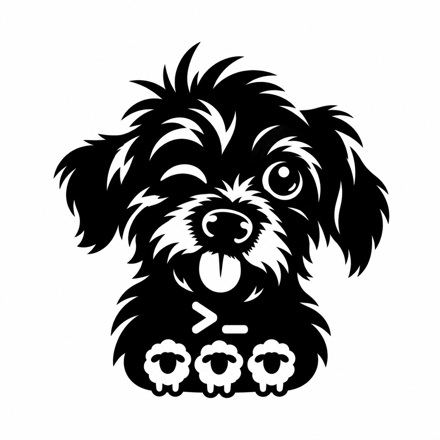
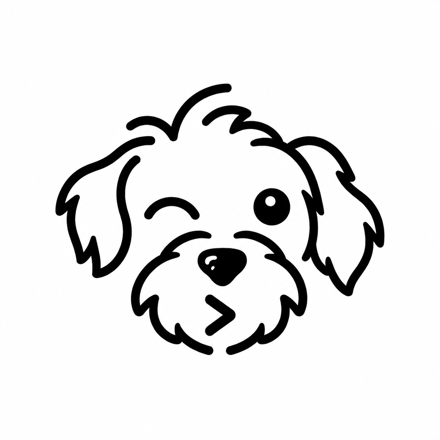
feat(brand): adopt Nenu monoline identity

Changed region(s): [[0.1182, 0.0886, 0.8864, 0.9159]]

diff --git a/web/vite.config.ts b/web/vite.config.ts
@@ -144,7 +144,7 @@ export default defineConfig({
       manifest: {
         name: "Nenu",
         short_name: "Nenu",
-        description: "Monitor and reply to your Herdr agent herd from your phone",
+        description: "Herdr agent workbench for mobile and web",
         id: "/",
         start_url: "/",
         scope: "/",

diff --git a/assets/brand/README.md b/assets/brand/README.md
@@ -1,9 +1,12 @@
 # Nenu brand assets
 
-- `nenu-logo-master.png` is the full-resolution ImageGen source based on the maintainer's black
-  terrier: a wink, terminal prompt, and three sheep.
-- `nenu-readme.png` is the optimized README derivative.
-- Runtime favicons and PWA icons live in `web/public/` and use the compact generated mark.
+- `nenu-logo-master.png` is the selected full-resolution ImageGen monoline mark based on the
+  maintainer's black terrier, reduced to a wink and terminal prompt.
+- `nenu-banner.png` is the wide Nenu wordmark for README and social surfaces. It identifies Nenu as
+  a Herdr agent workbench for mobile and web.
+- `nenu-readme.png` is the compact README/avatar derivative.
+- Runtime favicons, the Apple touch icon, and PWA icons live in `web/public/` and derive from the
+  same monoline mark.
 
 The Nenu name and logo are distributed with this repository under the same MIT License as the
 project. Do not imply endorsement by the original Collie or T3 Code maintainers.

diff --git a/README.md b/README.md
@@ -1,11 +1,9 @@
-<p align="center">
-  <img src="assets/brand/nenu-readme.png" alt="Nenu: a winking black terrier with a terminal prompt and three sheep" width="220">
-</p>
-
-<h1 align="center">Nenu</h1>
+<h1 align="center">
+  <img src="assets/brand/nenu-banner.png" alt="Nenu — Herdr agent workbench for mobile and web" width="900">
+</h1>
 
 <p align="center">
-  A fast, self-hosted web interface for supervising your Herdr coding agents from desktop or phone.
+  A fast, self-hosted interface for supervising your Herdr coding agents from mobile and web.
 </p>
 
 <p align="center">

diff --git a/CHANGELOG.md b/CHANGELOG.md
@@ -8,6 +8,14 @@ All notable changes to Nenu are recorded here. The format follows
 
 ## [Unreleased]
 
+## [0.37.1] - 2026-09-08
+
+### Changed
+
+- Replaced the detailed Nenu artwork with the selected lightweight monoline terrier across the app,
+  favicon, Apple touch icon, and PWA install icons.
+- Added a minimal README banner that identifies Nenu as a Herdr agent workbench for mobile and web.
+
 ## [0.37.0] - 2026-09-08
 
 ### Added
